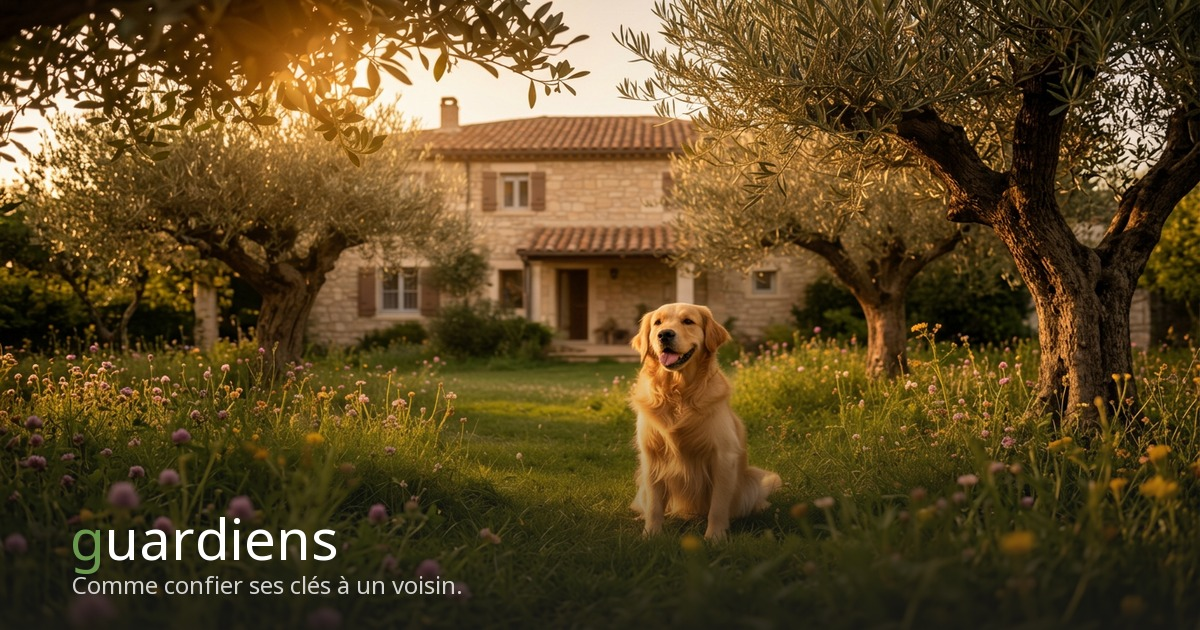
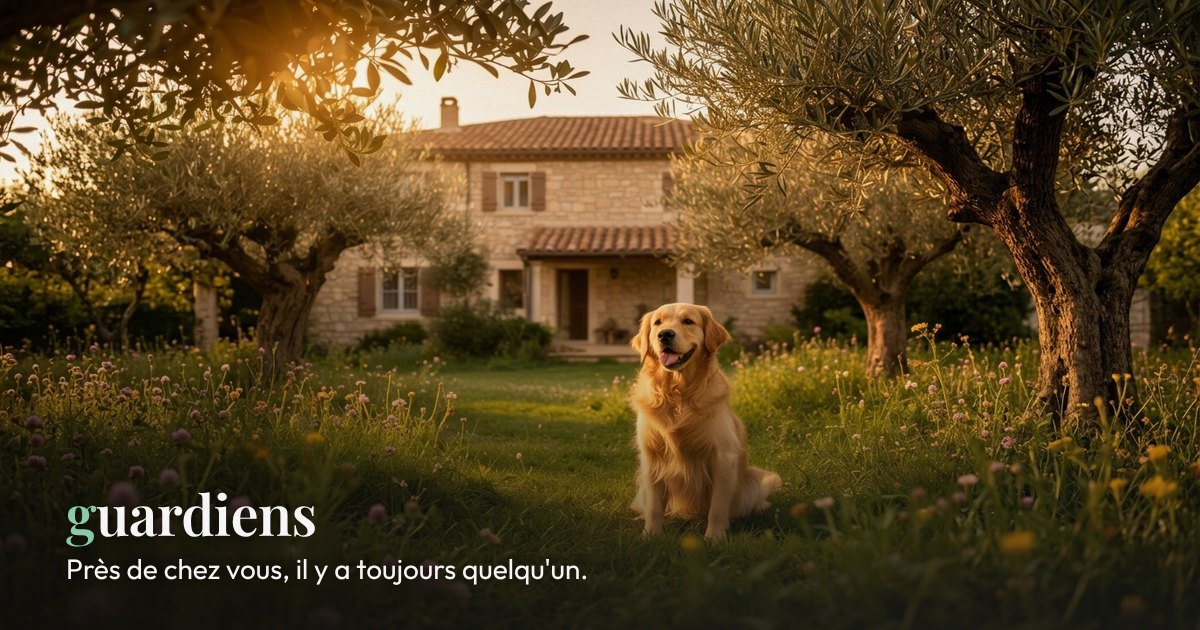
Aperçus de partage : une image et un texte alternatif par rubrique
- Accueil : photo actuelle, phrase « Près de chez vous, il y a toujours quelqu'un. »
  (public/og-default.jpg remplacé, secours de toutes les pages).
- /projets, /petites-missions, /associations : images dédiées dans public/og/.
- PageMeta : prop imageAlt, og:image:alt et twitter:image:alt toujours réécrits
  (texte de l'image par défaut en repli, retirés pour une autre image sans texte).
- index.html : og:image:alt corrigé, twitter:image:alt ajouté.
- staticRoutes : ogImage des trois rubriques, parité testée.

Claude-Session: https://claude.ai/code/session_01NdrvPzTBJUENyZ6LdepvKS

Changed region(s): [[0.0, 0.5429, 0.4933, 0.9952], [0.3083, 0.7841, 0.3392, 0.8143]]

diff --git a/src/__tests__/og-apercus-rubriques.test.tsx b/src/__tests__/og-apercus-rubriques.test.tsx
@@ -1,0 +1,98 @@
+/**
+ * Aperçus de partage (25/10/2026) : une image et un texte alternatif par
+ * rubrique (accueil, /projets, /petites-missions, /associations).
+ */
+import { describe, expect, it } from "vitest";
+import { render, cleanup } from "@testing-library/react";
+import { MemoryRouter } from "react-router-dom";
+import { readFileSync, existsSync } from "node:fs";
+import { resolve } from "node:path";
+import PageMeta from "@/components/PageMeta";
+import { DEFAULT_OG_IMAGE, DEFAULT_OG_IMAGE_ALT, SECTION_OG_IMAGES } from "@/data/siteConstants";
+import { staticRoutes } from "@/data/siteRoutes";
+
+const root = (p: string) => resolve(process.cwd(), p);
+
+/** Dimensions d'un JPEG lues dans le segment SOF. */
+const jpegSize = (file: string) => {
+  const b = readFileSync(file);
+  expect(b[0]).toBe(0xff);
+  expect(b[1]).toBe(0xd8);
+  let i = 2;
+  while (i < b.length) {
+    const marker = b[i + 1];
+    const len = b.readUInt16BE(i + 2);
+    if (marker >= 0xc0 && marker <= 0xcf && ![0xc4, 0xc8, 0xcc].includes(marker)) {
+      return { height: b.readUInt16BE(i + 5), width: b.readUInt16BE(i + 7), bytes: b.length };
+    }
+    i += 2 + len;
+  }
+  throw new Error(`SOF introuvable : ${file}`);
+};
+
+const meta = (attr: string, key: string) =>
+  document.head.querySelector(`meta[${attr}="${key}"]`)?.getAttribute("content") ?? null;
+
+describe("Aperçus de partage par rubrique", () => {
+  it("les URL des rubriques sont celles de staticRoutes", () => {
+    const byPath = (p: string) => staticRoutes.find((r) => r.path === p)?.ogImage;
+    expect(byPath("/projets")).toBe(SECTION_OG_IMAGES.projets.url);
+    expect(byPath("/petites-missions")).toBe(SECTION_OG_IMAGES.entraide.url);
+    expect(byPath("/associations")).toBe(SECTION_OG_IMAGES.associations.url);
+    expect(byPath("/")).toBe(DEFAULT_OG_IMAGE);
+  });
+
+  it("chaque image existe en JPEG 1200 × 630 de moins de 300 Ko", () => {
+    const urls = [DEFAULT_OG_IMAGE, ...Object.values(SECTION_OG_IMAGES).map((s) => s.url)];
+    for (const url of urls) {
+      const file = root(`public${new URL(url).pathname}`);
+      expect(existsSync(file), file).toBe(true);
+      const { width, height, bytes } = jpegSize(file);
+      expect([width, height]).toEqual([1200, 630]);
+      expect(bytes).toBeLessThan(300 * 1024);
+    }
+  });
+
+  it("index.html décrit l'image réellement servie", () => {
+    const html = readFileSync(root("index.html"), "utf8");
+    expect(html).toContain(`<meta property="og:image:alt" content="${DEFAULT_OG_IMAGE_ALT}" />`);
+    expect(html).toContain(`<meta name="twitter:image:alt" content="${DEFAULT_OG_IMAGE_ALT}" />`);
+    expect(html).not.toContain("canapé");
+  });
+
+  it("PageMeta : image par défaut, image de rubrique, image sans texte alternatif", () => {
+    render(
+      <MemoryRouter>
+        <PageMeta title="Accueil" description="d" path="/" />
+      </MemoryRouter>,
+    );
+    expect(meta("property", "og:image")).toBe(DEFAULT_OG_IMAGE);
+    expect(meta("property", "og:image:alt")).toBe(DEFAULT_OG_IMAGE_ALT);
+    cleanup();
+
+    render(
+      <MemoryRouter>
+        <PageMeta
+          title="Projets"
+          description="d"
+          path="/projets"
+          image={SECTION_OG_IMAGES.projets.url}
+          imageAlt={SECTION_OG_IMAGES.projets.alt}
+        />
+      </MemoryRouter>,
+    );
+    expect(meta("property", "og:image")).toBe(SECTION_OG_IMAGES.projets.url);
+    expect(meta("property", "og:image:alt")).toBe(SECTION_OG_IMAGES.projets.alt);
+    expect(meta("name", "twitter:image:alt")).toBe(SECTION_OG_IMAGES.projets.alt);
+    cleanup();
+
+    // Page suivante avec une autre image et aucun texte : l'ancien disparaît.
+    render(
+      <MemoryRouter>
+        <PageMeta title="Autre" description="d" path="/autre" image="https://example.org/x.jpg" />
+      </MemoryRouter>,
+    );
+    expect(meta("property", "og:image:alt")).toBeNull();
+    expect(meta("name", "twitter:image:alt")).toBeNull();
+  });
+});

diff --git a/src/components/PageMeta.tsx b/src/components/PageMeta.tsx
@@ -2,7 +2,7 @@ import { useEffect } from "react";
 import { useLocation } from "react-router-dom";
 import { buildAbsoluteUrl, normalizeCanonical, normalizePathname } from "@/lib/seo";
 import { logSeoSnapshot } from "@/lib/seoDebugLog";
-import { DEFAULT_OG_IMAGE } from "@/data/siteConstants";
+import { DEFAULT_OG_IMAGE, DEFAULT_OG_IMAGE_ALT } from "@/data/siteConstants";
 
 
 const DEFAULT_IMAGE = DEFAULT_OG_IMAGE;
@@ -29,6 +29,12 @@ interface PageMetaProps {
   description: string;
   path?: string;
   image?: string;
+  /**
+   * Texte alternatif de l'image de partage (og:image:alt, twitter:image:alt).
+   * Sans valeur : celui de l'image par défaut quand elle est utilisée, sinon
+   * aucune balise (jamais un texte qui décrit une autre image).
+   */
+  imageAlt?: string;
   type?: "website" | "article";
   publishedAt?: string;
   author?: string;
@@ -77,6 +83,7 @@ const PageMeta = ({
   description,
   path,
   image = DEFAULT_IMAGE,
+  imageAlt,
   type = "website",
   publishedAt,
   author,
@@ -99,6 +106,7 @@ const PageMeta = ({
   const canonicalUrl = explicitCanonical ?? currentUrl;
   const metaDescription = description.trim();
   const resolvedImage = image === DEFAULT_IMAGE ? getListingOgImageFromPath(currentPath) ?? image : image;
+  const resolvedImageAlt = imageAlt ?? (resolvedImage === DEFAULT_IMAGE ? DEFAULT_OG_IMAGE_ALT : null);
   const titleWithoutSuffix = title
     .replace(/\s*\|\s*Guardiens\s*$/i, "")
     .replace(/\s*,\s*Guardiens\s*$/i, "")
@@ -219,6 +227,16 @@ const PageMeta = ({
     upsertMetaTag({ attr: "name", key: "twitter:description", content: metaDescription });
     upsertMetaTag({ attr: "name", key: "twitter:image", content: resolvedImage });
 
+    // Texte alternatif toujours réécrit : sinon celui d'index.html, ou celui
+    // d'une page visitée avant, resterait accolé à une autre image.
+    if (resolvedImageAlt) {
+      upsertMetaTag({ attr: "property", key: "og:image:alt", content: resolvedImageAlt });
+      upsertMetaTag({ attr: "name", key: "twitter:image:alt", content: resolvedImageAlt });
+    } else {
+      removeMetaTag({ attr: "property", key: "og:image:alt" });
+      removeMetaTag({ attr: "name", key: "twitter:image:alt" });
+    }
+
     (extraMeta ?? []).forEach((m) => upsertMetaTag(m));
 
     if (type === "article" && publishedAt) {
@@ -256,7 +274,7 @@ const PageMeta = ({
       window.prerenderMetaPending = false;
       (window as any).prerenderReady = true;
     }
-  }, [author, canonical, isPreviewHost, canonicalUrl, currentPath, currentUrl, extraMetaKey, fullTitle, jsonLdKey, metaDescription, noindex, nofollow, noCanonical, statusCode, prerenderHeader, publishedAt, ready, resolvedImage, type]);
+  }, [author, canonical, isPreviewHost, canonicalUrl, currentPath, currentUrl, extraMetaKey, fullTitle, jsonLdKey, metaDescription, noindex, nofollow, noCanonical, statusCode, prerenderHeader, publishedAt, ready, resolvedImage, resolvedImageAlt, type]);
 
   // Toutes les balises sont écrites impérativement dans le useEffect ci-dessus,
   // react-helmet-async n'atteignant pas le DOM sur ce projet.

diff --git a/src/data/siteConstants.ts b/src/data/siteConstants.ts
@@ -3,6 +3,27 @@ export const SITE_URL = "https://guardiens.fr";
 export const DEFAULT_OG_IMAGE = `${SITE_URL}/og-default.jpg`;
 /** Image de partage de l'accueil (identique à staticRoutes["/"].ogImage, parité testée). */
 export const HOME_OG_IMAGE = DEFAULT_OG_IMAGE;
+/** Texte alternatif de l'image de partage par défaut (accueil et secours de toutes les pages). */
+export const DEFAULT_OG_IMAGE_ALT =
+  "Un golden retriever assis dans un jardin fleuri devant une maison en pierre, au soleil couchant";
+/**
+ * Images de partage des rubriques (1200 × 630, JPEG). URL identiques à
+ * staticRoutes[].ogImage (parité testée).
+ */
+export const SECTION_OG_IMAGES = {
+  projets: {
+    url: `${SITE_URL}/og/og-projets.jpg`,
+    alt: "Illustration aquarelle d'une maison en pierre et d'une caisse à outils",
+  },
+  entraide: {
+    url: `${SITE_URL}/og/og-entraide.jpg`,
+    alt: "Illustration aquarelle de deux mains qui se passent un pot de terre",
+  },
+  associations: {
+    url: `${SITE_URL}/og/og-associations.jpg`,
+    alt: "Illustration aquarelle d'un chien en laisse et d'un chat assis",
+  },
+} as const;
 /** Article de presse (Le Progrès, 06/09/2026), partagé par le pied de page et PressQuote. */
 export const PRESS_ARTICLE_URL =
   "https://c.leprogres.fr/economie/2026/09/06/apres-avoir-garde-234-animaux-et-37-maisons-ils-lancent-leur-plateforme-de-home-sitting";

diff --git a/index.html b/index.html
@@ -83,7 +83,7 @@
     <meta property="og:image" content="https://guardiens.fr/og-default.jpg" />
     <meta property="og:image:width" content="1200" />
     <meta property="og:image:height" content="630" />
-    <meta property="og:image:alt" content="Un chien et un chat sur un canapé dans un salon lumineux" />
+    <meta property="og:image:alt" content="Un golden retriever assis dans un jardin fleuri devant une maison en pierre, au soleil couchant" />
     <meta property="og:url" content="https://guardiens.fr" />
     <meta property="og:type" content="website" />
     <meta property="og:site_name" content="Guardiens" />
@@ -92,6 +92,7 @@
     <meta name="twitter:title" content="Garde d'animaux et de maison près de chez vous | Guardiens" />
     <meta name="twitter:description" content="Faites garder votre chien, votre chat et votre maison par un gardien près de chez vous, et trouvez un coup de main au quotidien. Guardiens est gratuit." />
     <meta name="twitter:image" content="https://guardiens.fr/og-default.jpg" />
+    <meta name="twitter:image:alt" content="Un golden retriever assis dans un jardin fleuri devant une maison en pierre, au soleil couchant" />
     <meta name="author" content="Guardiens" />
     <meta name="geo.region" content="FR" />
     <meta name="geo.placename" content="France" />

diff --git a/src/pages/EntraideHub.tsx b/src/pages/EntraideHub.tsx
@@ -4,6 +4,7 @@ import { Accordion, AccordionContent, AccordionItem, AccordionTrigger } from "@/
 import { Button } from "@/components/ui/button";
 import { Input } from "@/components/ui/input";
 import PageMeta from "@/components/PageMeta";
+import { SECTION_OG_IMAGES } from "@/data/siteConstants";
 import PageBreadcrumb from "@/components/seo/PageBreadcrumb";
 import { HelperCard, NeedRow, openHelperConversation, type EntraideNeed, type NeedRowState, type PublicHelper } from "@/components/entraide/EntraideCards";
 import type { MissionBadgeRow } from "@/components/missions/MissionBadgesReceived";
@@ -425,6 +426,8 @@ const EntraideHub = () => {
         description="Jardinage, courses, trajets, une partie de belote : demandez ou proposez un coup de main près de chez vous. Guardiens est gratuit."
         path="/petites-missions"
         jsonLd={[faqSchema]}
+        image={SECTION_OG_IMAGES.entraide.url}
+        imageAlt={SECTION_OG_IMAGES.entraide.alt}
       />
       <PageBreadcrumb items={[{ label: "Entraide" }]} />
       <div className="min-w-0 bg-background pb-24">

diff --git a/src/pages/ProjetsListing.tsx b/src/pages/ProjetsListing.tsx
@@ -3,6 +3,7 @@ import { Link } from "react-router-dom";
 import { supabase } from "@/integrations/supabase/client";
 import { reportError } from "@/lib/errorLogger";
 import PageMeta from "@/components/PageMeta";
+import { SECTION_OG_IMAGES } from "@/data/siteConstants";
 import { projetsHubSeo } from "@/lib/projetSeo";
 import { isIndexableProjetMission } from "../../supabase/functions/_shared/entraideMissionIndexability.js";
 import { faqPageJsonLd } from "@/lib/associationFaq";
@@ -185,6 +186,8 @@ const ProjetsListing = () => {
         title="Chantiers participatifs et projets à réaliser ensemble | Guardiens"
         description="Planter une haie, construire un abri : rejoignez un chantier participatif près de chez vous ou publiez votre projet. Guardiens est gratuit."
         jsonLd={[faqPageJsonLd(PROJETS_FAQ)]}
+        image={SECTION_OG_IMAGES.projets.url}
+        imageAlt={SECTION_OG_IMAGES.projets.alt}
         noindex={hubSeo.noindex}
         ready={hubSeo.ready}
         statusCode={hubSeo.statusCode}

diff --git a/src/data/siteRoutes.ts b/src/data/siteRoutes.ts
@@ -185,6 +185,7 @@ export const staticRoutes: SiteRoute[] = [
  h1: "Entraide et coups de main près de chez vous",
  sitemapPriority: "0.8",
  changeFreq: "weekly",
+ ogImage: "https://guardiens.fr/og/og-entraide.jpg",
  },
  {
  path: "/projets",
@@ -193,6 +194,7 @@ export const staticRoutes: SiteRoute[] = [
  h1: "Des chantiers et projets à réaliser ensemble",
  sitemapPriority: "0.7",
  changeFreq: "weekly",
+ ogImage: "https://guardiens.fr/og/og-projets.jpg",
  },
  {
  path: "/petites-missions/lyon",
@@ -321,6 +323,7 @@ export const staticRoutes: SiteRoute[] = [
  h1: "Associations et refuges de protection animale",
  sitemapPriority: "0.8",
  changeFreq: "weekly",
+ ogImage: "https://guardiens.fr/og/og-associations.jpg",
  },
  {
  path: "/guides",

diff --git a/src/pages/AssociationsListing.tsx b/src/pages/AssociationsListing.tsx
@@ -2,6 +2,7 @@ import { useMemo, useState } from "react";
 import { Link } from "react-router-dom";
 import { useQuery } from "@tanstack/react-query";
 import PageMeta from "@/components/PageMeta";
+import { SECTION_OG_IMAGES } from "@/data/siteConstants";
 import { SITE_URL } from "@/lib/seo";
 import { supabase } from "@/integrations/supabase/client";
 import { Button } from "@/components/ui/button";
@@ -212,6 +213,8 @@ export default function AssociationsListing() {
         description={META_DESCRIPTION}
         path="/associations"
         canonical={`${SITE_URL}/associations`}
+        image={SECTION_OG_IMAGES.associations.url}
+        imageAlt={SECTION_OG_IMAGES.associations.alt}
         jsonLd={jsonLd}
         ready={!isLoading}
       />
